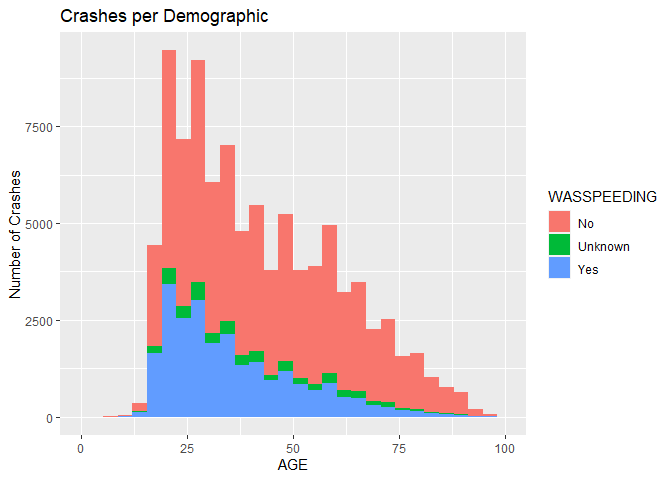
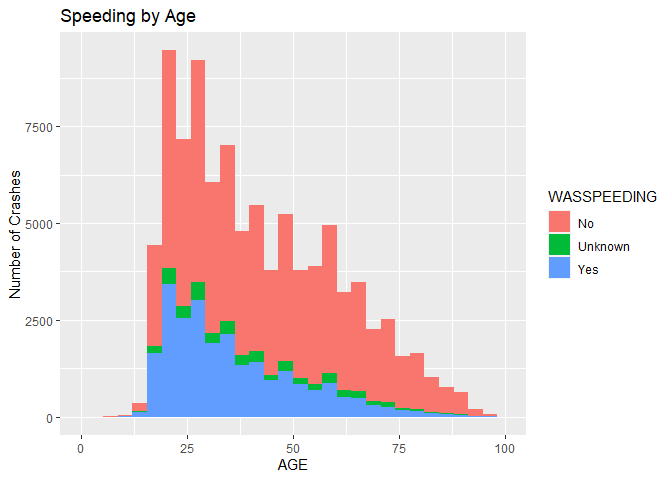
Finalizing the report

Changed region(s): [[0.0938, 0.0, 0.4062, 0.0625]]

diff --git a/README.md b/README.md
@@ -1,24 +1,19 @@
 
-# Final Project DS202
+# Analysis on Fatal Motor Vehicle Accidents in the United States
 
 #### Marissa Baietto, Ryan Dorle, Braeden Collings
 
-## Introduction (ANYONE CAN FIX THIS SECTION TO MAKE IT CLEANER)
+## Introduction
 
-- Describe topic The goal of the project is to explore multiple datasets
-  to better understand fatal vehicle crashes. Understanding this topic
-  better can lead to increased awareness, targeted policing efforts, and
-  identification of common trends for accidents. Ultimately, the goal is
-  the circumstances in which individuals get into vehicular accidents,
-  and how to avoid fatal crashes.
-- Why topic is important Fatal car crashes are a part of daily life due
-  to the high volume of drivers in the united states. We want to
-  investigate the data of multiple variables to see if there are trends
-  that tend to happen. With the discovery of trends or common occurance
-  the knowledge can be used to help citizens as well as law enforcment
-  to better saftey on the roads.
-- Research question In pursuit of the stated goal, we will explore the
-  following questions:
+The goal of the project is to explore multiple datasets to better
+understand fatal vehicle crashes. Unfortunately, fatal car crashes have
+become increasingly prevalent due to the high volume of drivers in the
+United States. Analysis on this topic can lead to increased awareness,
+more effective policing efforts, and identification of common trends for
+accidents. Ultimately, our goal is to understand the circumstances in
+which individuals get into vehicular accidents.
+
+In pursuit of the stated goal, we will explore the following questions:
 
 1.  Does impairment affect fatality in crashes overall? When are
     impaired crashes most likely?
@@ -276,27 +271,7 @@ write.csv(df1, 'master.csv')
 - SPEEDREL: Whether the crash was speeding related.
 - VSPD_LIM: What the speeding limit was.
 
-## Methods
-
-- Methods utilized, if used
-
 ## Results
-
-- All results and graphics
-  - For each graphic,
-    - Motivation for making the graphic
-    - Insights obtained from the graphics
-    - Necessary explanations
-  - Formatting
-    - Axis Labels, Title, Captions, Color Scheme if necessary
-    - Each graphic illustrates one point
-    - Make color scheme cohesive
-    - Avoid repetition
-- List trials and errors
-  - Critical of findings
-  - Multiple approaches and techniques used to verify unintuitive
-    results
-- Any additional research used to help understand/explain findings
 
 ``` r
 library(readr)
@@ -416,15 +391,14 @@ Originally, this graph showed high fatalities in January and February,
 but little to no fatalities for rest of the year, with almost none in
 November and December. We knew that this could not be correct, as it was
 impossible for there to be no fatalities in December. This led us to the
-finding that we mistakenly skewed the data when originally downscaling
-the dataset. At first, we filtered the final dataframe such that we were
-selecting the first 500 cases for every state and year pair. It turned
-out that the state case numbers were created in chronological order,
-with the smallest case numbers being in January and the largest in
-December. To fix this, we changed the filter to select only the even
-numbered state cases. This way, we would be getting a random sample of
-the cases with all of the months having a representative proportion of
-cases.
+finding that we mistakenly skewed the data. At first, we filtered the
+final dataframe such that we were selecting the first 500 cases for
+every state and year pair. It turned out that the state case numbers
+were created in chronological order, with the smallest case numbers
+being in January and the largest in December. To fix this, we changed
+the filter to select only the even numbered state cases. This way, we
+would be getting a random sample of the cases with all of the months
+represented accurately.
 
 It is interesting to note that some of the holidays are immediately
 apparent, such as New Years Day being the highest datapoint in January,
@@ -524,6 +498,16 @@ p1 / p2
 
 ![](README_files/figure-gfm/unnamed-chunk-19-1.png)<!-- -->
 
+The first graph shows the number of fatalities for each of 3 groups:
+driver was speeding, driver was not speeding, and unknown. The ratio of
+the number of fatalities for non speeding and speeding crashes is three
+to one. The second graph uses the fatality rate, which is the total
+number of fatalities divided by the total number of crashes for each
+group. In this graph, it can be seen that both speeding and non-speeding
+have similar fatality rates. So, there are more crashes that did not
+involve speeding than crashes that involved speeding, but crashes that
+involved speeding result in more fatalities.
+
 #### Speeding and Age
 
 ``` r
@@ -531,7 +515,7 @@ master %>% filter(AGE < 900) %>% filter(AGE == min(AGE))
 ```
 
 ``` r
-master %>% ggplot(aes(x=AGE, fill = WASSPEEDING, weight = FATALS)) + geom_histogram() + scale_x_continuous(name="AGE", limits=c(0, 100)) + xlab("Age - Colored by Sex") + ylab("Number of Crashes") + ggtitle("Crashes per Demographic")
+master %>% ggplot(aes(x=AGE, fill = WASSPEEDING, weight = FATALS)) + geom_histogram() + scale_x_continuous(name="AGE", limits=c(0, 100)) + xlab("Age - Colored by Sex") + ylab("Number of Crashes") + ggtitle("Speeding by Age")
 ```
 
     ## `stat_bin()` using `bins = 30`. Pick better value with `binwidth`.
@@ -542,15 +526,42 @@ master %>% ggplot(aes(x=AGE, fill = WASSPEEDING, weight = FATALS)) + geom_histog
 
 ![](README_files/figure-gfm/unnamed-chunk-21-1.png)<!-- -->
 
-#### Speedlimits and Fatalities
+There was one outlier in age, which was a 6 year old. This seemed odd
+that a six year old was driving a vehicle, so we looked up this case in
+the original dataset with all of the variables. It turned out that the
+six year old was driving an atv, which is not unusual.
+
+The graph shows the number of fatalities for each age group, with the
+fill being whether or not the driver was speeding. From the graph, we
+can see that the distribution of speeding follows the same trend as age
+overall: more people in their early twenties speed, with a steady
+decline as age increases. It appears that on average, speeding is rarely
+a cause of car accidents for drivers over 75.
+
+#### Speed Limits and Fatalities
 
 ``` r
-master %>% ggplot(aes(x = as.factor(VSPD_LIM), weight = FATALS)) + geom_bar()
+p1 <- master %>% ggplot(aes(x = (VSPD_LIM))) + geom_boxplot() + xlab("Speed Limit") + ggtitle("Distribution of Speed Limit") + scale_x_continuous(breaks=seq(0,100,by=10)) + theme(axis.text.y=element_blank(), axis.ticks.y=element_blank() )
+
+p2 <- master %>% group_by(VSPD_LIM) %>% mutate(num_cases = sum(VEH_NO)) %>% ungroup() %>% ggplot(aes(x = as.factor(VSPD_LIM), weight = FATALS/num_cases)) + geom_bar() + xlab("Speed Limit") + ylab("Fatality Rate") + ggtitle("Fatality Rates by Speed Limit")
+
+p1/p2
 ```
 
 ![](README_files/figure-gfm/unnamed-chunk-22-1.png)<!-- -->
 
+This graph was created to see whether more crashes occur at higher
+speeds, and whether crashes that occurred at higher speeds result in
+more fatalities. From the first graph, it appears that fifty percent of
+the fatal crashes occured between 40 and 60 miles per hour, which is
+lower than we expected. There were outliers at 0, 5, 98, and 99 miles
+per hour. The 0 mph was most likely a parked vehicle that was hit. The
+second graph shows the fatality rate for each speed limit, and a
+positive relationship between speed limit and fatality rate is depicted.
+
 ### Does impairment affect fatality in crashes overall? When are impaired crashes most likely?
+
+#### Impairment
 
 ``` r
 master$ImpairmentAlcohol <- ifelse(master$DRINKINGNAME %in% c("No (Alcohol Not Involved)", "Unknown (Police Reported)", "Not Reported", "Reported as Unknown"), FALSE, TRUE)
@@ -565,6 +576,8 @@ master %>% ggplot(aes(x = Impairment)) + geom_bar() + ggtitle("Was the Deceased 
 ```
 
 ![](README_files/figure-gfm/unnamed-chunk-23-1.png)<!-- -->
+
+#### Impairment and Hour
 
 A graph just to get an idea of what amount of fatal crashes had a form
 of drugs or alcohol in there system at the time of the crash.
@@ -583,6 +596,8 @@ fatalities when impairment was involved. We can see that at the times
 from 9pm - 2am where the highest rates.
 
 ### What regions of the United States have the most fatal crashes? What conditions are present in those regions?
+
+#### Impairment and Region
 
 ``` r
 master <- master %>% 
@@ -609,6 +624,8 @@ master %>% ggplot(aes(x = Region, fill = Impairment)) + geom_bar() + ggtitle("Re
 This graph gives us a chance to see what regions had the most deaths, as
 well as a color change for when impairment was involved in the crash.
 
+#### Population Density
+
 ``` r
 master %>% ggplot(aes(x = Region, fill = RUR_URBNAME)) + geom_bar() + ggtitle("Population Density")
 ```
@@ -617,6 +634,8 @@ master %>% ggplot(aes(x = Region, fill = RUR_URBNAME)) + geom_bar() + ggtitle("P
 
 We can bring in another variable to see if the population density of a
 region plays a roll in fatal crashes and we find that it does not.
+
+#### Population Density and Impairment
 
 ``` r
 master %>% ggplot(aes(x = Impairment, fill = RUR_URBNAME)) + geom_bar() + ggtitle("Population Density & Impairment")
@@ -629,6 +648,8 @@ affected by population denstity and again we find that they are not.
 
 ### How does the demographics of the driver affect crashes? Are changes based on occupants more prevalent for younger drivers?
 
+#### Age and Sex
+
 ``` r
 master %>% ggplot(aes(x=AGE, fill = SEXNAME)) + geom_histogram()
 ```
@@ -637,7 +658,7 @@ master %>% ggplot(aes(x=AGE, fill = SEXNAME)) + geom_histogram()
 
 ![](README_files/figure-gfm/unnamed-chunk-28-1.png)<!-- -->
 
-Similar to the hour, there is a stange outlier that we will eliminate
+Similar to the hour, there is a strange outlier that we will eliminate
 
 ``` r
 master %>% ggplot(aes(x=AGE, fill = SEXNAME)) + geom_histogram() + scale_x_continuous(name="AGE", limits=c(0, 100)) + xlab("Age - Colored by Sex") + ylab("Number of Crashes") + ggtitle("Crashes per Demographic")
@@ -654,6 +675,8 @@ master %>% ggplot(aes(x=AGE, fill = SEXNAME)) + geom_histogram() + scale_x_conti
 This data clearly shows that driver age and sex are largely impactful in
 fatal car crashes.
 
+#### Lighting Conditions
+
 ``` r
 master %>% ggplot(aes(x=LGT_CONDNAME)) + geom_bar() + theme(axis.text.x = element_text(angle = 30, vjust = 0.5)) + ggtitle("Count of Crashes based on Lighting Conditions") + ylab("Number of Crashes") + xlab("Lighting Condition")
 ```
@@ -664,6 +687,8 @@ Looking at the time of day, it makes sense that daylight would have
 significantly more crashes than dark. It is important to not that when
 dark, there are significantly more when the area is not lighted.
 
+#### Weather Conditions
+
 ``` r
 master %>% ggplot(aes(y=STATENAME, fill = WEATHERNAME)) + geom_bar() + xlab("Number of Crashes") + ylab("State Name") + labs(fill = "Weather Condition") + ggtitle("Weather Conditions for each Crash per State")
 ```
@@ -673,6 +698,8 @@ master %>% ggplot(aes(y=STATENAME, fill = WEATHERNAME)) + geom_bar() + xlab("Num
 Looking at crashes per state, it is clear even in colder states, where
 snow is common, clear or cloudy conditions are the most common
 conditions for crashes
+
+#### Weather Conditions and Lighting Conditions
 
 ``` r
 master %>% ggplot(aes(x=WEATHERNAME, fill = LGT_CONDNAME)) + geom_bar() + theme(axis.text.x = element_text(angle = 30, vjust = 0.5)) + ggtitle("Count of Crashes based on Weather Conditions") + ylab("Number of Crashes") + xlab("Weather Condition") + labs(fill = "Lighting Condition")
@@ -685,6 +712,23 @@ careful for are cloudy or clear days when the area is lighted.
 
 ## Conclusion
 
-- Overall idea
-- Interesting further questions
-- Ideas for future research
+In conclusion, our analysis of fatal vehicle crashes in the United
+States has shed light on several critical factors influencing these
+tragic events. The most common theme throughout our analysis was that
+we, like many, had severe misconceptions on the reality of fatal car
+crashes. It is not as simple to avoid driving in the dark, drive on
+clear, sunny days, and to avoid speeding. In fact, most of these fatal
+accidents occured on days that seem relatively safe - lighted, clear,
+sunny days in which drivers did not drink or speed. This implies that
+drivers must never let their guard down, as traffic accidents can happen
+even to the safest drivers and under the best circumstances. With this
+result, we can encourage drivers to have the same alertness no matter
+the circumstances, which is an important lesson.
+
+Further research on changes in fatal accidents over the years is needed,
+as we did not have the time to dive into changes between 2017 and 2021.
+It would also be interesting to see what changes occured during the
+pandemic years, and whether the roads were “safter”. Lastly, there were
+many variables we were not able to analyze, and further research on
+these factors such as make of car and how pedestrians and bicyclists are
+affected by vehicle crashes is the next step.
